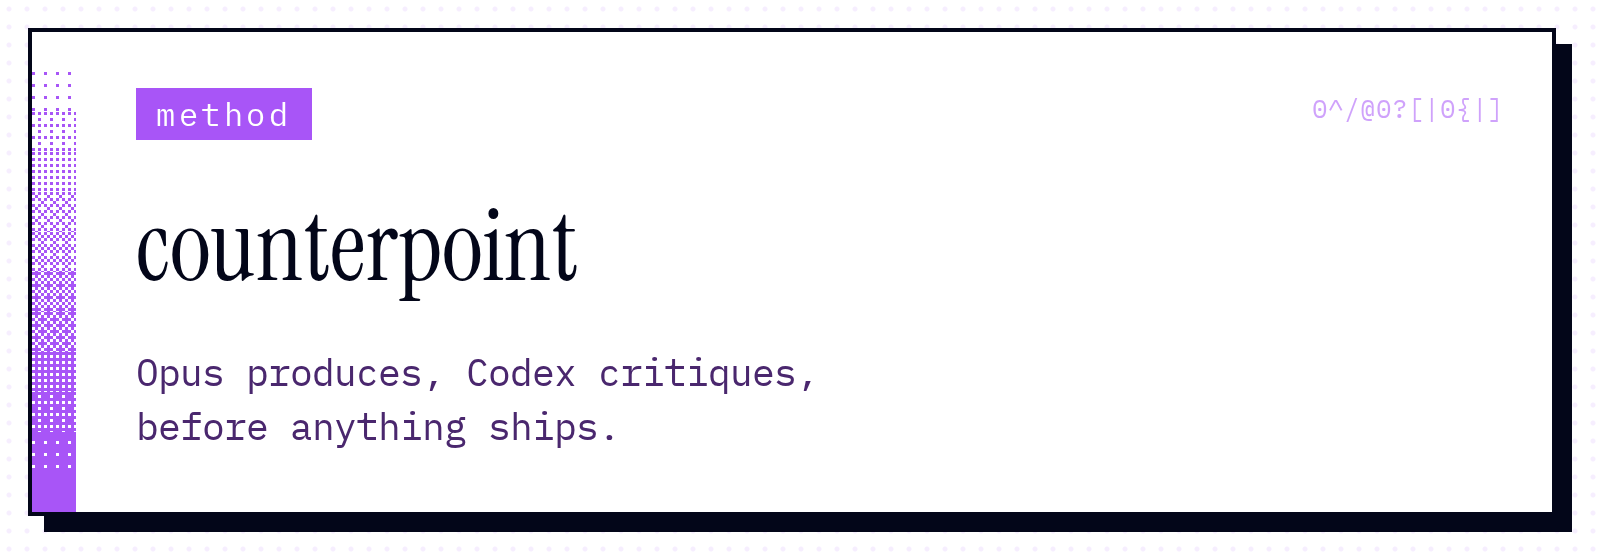
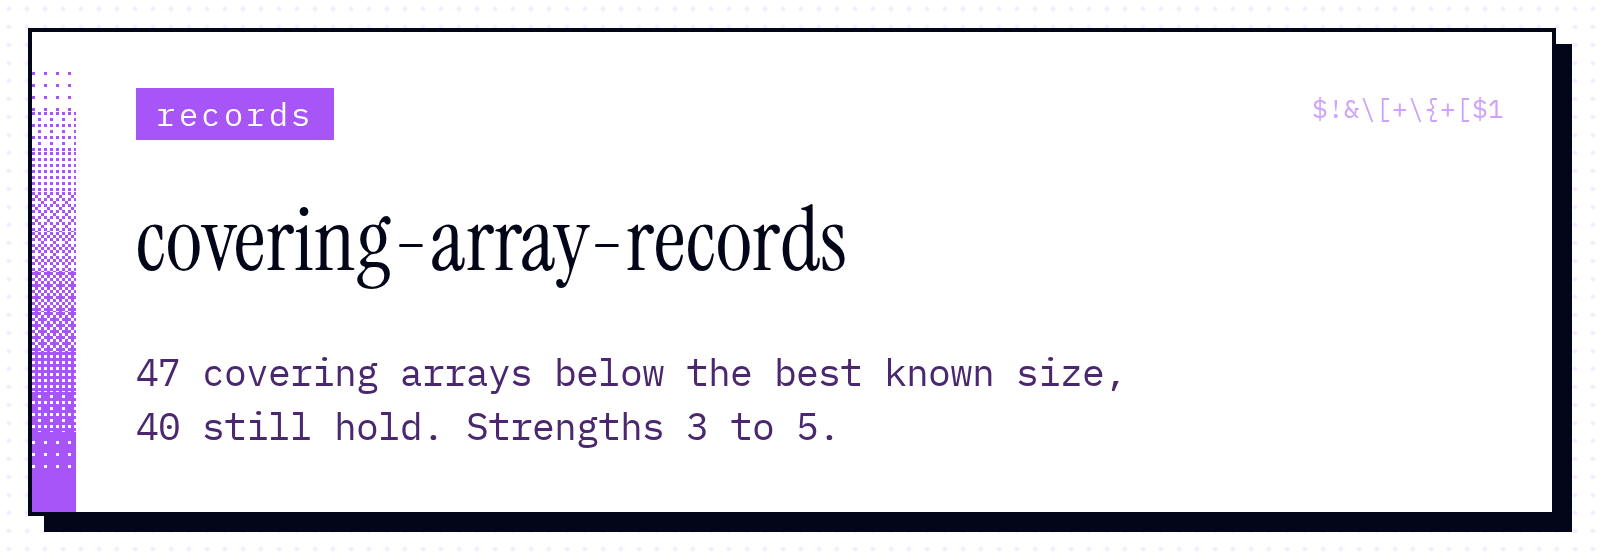
Update profile: math records, preprints and data DOIs, slopcheck-fr

diff --git a/README.md b/README.md
@@ -2,26 +2,31 @@
 
 I run [swanbase](https://swanbase.co/en/) with [Vincent](https://github.com/the20100), a growth marketing accelerator in Paris for early-stage European startups. We take founders from their first 10 customers to their first 1,000: ads, cold email, SEO, conversion. It costs them €0, and we stay with them until the exit. Before that, we ran growth for 96 startups at Panja, from 2017 to 2024.
 
-Everything we learn there ends up as a tool, open source when we can. On the side, I study how LLMs reason and make decisions, mostly the cases where they break.
+Everything we learn there ends up as a tool, open source when we can. On the side, I research two things: how LLMs reason and make decisions, mostly the cases where they break, and new records in combinatorial design and logic synthesis. Each record comes with the program that builds it and a script that checks it.
 
 <img src="assets/l2.png" alt="// research" width="100%">
 
 <p align="center">
 <a href="https://github.com/tns-research/constraint-coherence"><img src="assets/r1.png" alt="constraint-coherence" width="49%"></a><a href="https://github.com/tns-research/llm-finance-framework"><img src="assets/r2.png" alt="llm-finance-framework" width="49%"></a><br>
-<a href="https://github.com/tns-research/counterpoint"><img src="assets/r3.png" alt="counterpoint" width="49%"></a><a href="https://github.com/tns-research/agent-evals"><img src="assets/r4.png" alt="agent-evals" width="49%"></a>
+<a href="https://github.com/tns-research/covering-array-records"><img src="assets/r3.png" alt="covering-array-records" width="49%"></a><a href="https://github.com/tns-research/counterpoint"><img src="assets/r4.png" alt="counterpoint" width="49%"></a><br>
+<a href="https://github.com/tns-research/covering-design-records"><img src="assets/r5.png" alt="covering-design-records" width="49%"></a><a href="https://github.com/tns-research/epfl-benchmark-records"><img src="assets/r6.png" alt="epfl-benchmark-records" width="49%"></a>
 </p>
 
-**Preprints** (SSRN, 2026)
+**Preprints** (2026)
 
-- [When Reasoning Scaffolds Backfire: Structured Prompting Creates Systematic Failure Under Constraint Inversion](https://doi.org/10.2139/ssrn.6862624)
-- [Large Language Models in Financial Decision-Making: A Methodological Framework for Evaluating AI Trading Strategies](https://doi.org/10.2139/ssrn.6234878)
-- [Reasoning Into Confidence: A Controlled Single-Trader Ablation of In-Decision Chain-of-Thought on LLM Trading Performance and Calibration](https://doi.org/10.2139/ssrn.6946379)
+- [When Reasoning Scaffolds Backfire: Structured Prompting Creates Systematic Failure Under Constraint Inversion](https://doi.org/10.2139/ssrn.6862624) (SSRN)
+- [Large Language Models in Financial Decision-Making: A Methodological Framework for Evaluating AI Trading Strategies](https://doi.org/10.2139/ssrn.6234878) (SSRN)
+- [Reasoning Into Confidence: A Controlled Single-Trader Ablation of In-Decision Chain-of-Thought on LLM Trading Performance and Calibration](https://doi.org/10.2139/ssrn.6946379) (SSRN)
+- [New upper bounds for covering arrays of strength 3, 4 and 5](https://doi.org/10.5281/zenodo.23842218) (Zenodo)
+
+**Data** (Zenodo, 2026): [covering arrays](https://doi.org/10.5281/zenodo.23741408) · [covering designs](https://doi.org/10.5281/zenodo.23842216) · [EPFL benchmarks](https://doi.org/10.5281/zenodo.23842203)
 
 <img src="assets/l1.png" alt="// tools we build" width="100%">
 
 <p align="center">
 <a href="https://fog-agents.com"><img src="assets/t01.png" alt="fog" width="32%"></a><a href="https://st4lk.com"><img src="assets/t02.png" alt="ST4LK" width="32%"></a><a href="https://nametlas.com"><img src="assets/t03.png" alt="Nametlas" width="32%"></a><br>
-<a href="https://press3dparis.com"><img src="assets/t04.png" alt="Press3D Paris" width="32%"></a><a href="https://app.panja.io"><img src="assets/t05.png" alt="Palette" width="32%"></a><a href="https://github.com/tns-research/swanclip"><img src="assets/t06.png" alt="swanclip" width="32%"></a>
+<a href="https://press3dparis.com"><img src="assets/t04.png" alt="Press3D Paris" width="32%"></a><a href="https://app.panja.io"><img src="assets/t05.png" alt="Palette" width="32%"></a><a href="https://github.com/tns-research/swanclip"><img src="assets/t06.png" alt="swanclip" width="32%"></a><br>
+<a href="https://github.com/tns-research/slopcheck-fr"><img src="assets/t07.png" alt="slopcheck-fr" width="32%"></a><a href="https://swanbase.co/en/studio/"><img src="assets/t08.png" alt="all tools" width="32%"></a>
 </p>
 
 <img src="assets/l3.png" alt="// partner studios" width="100%">
